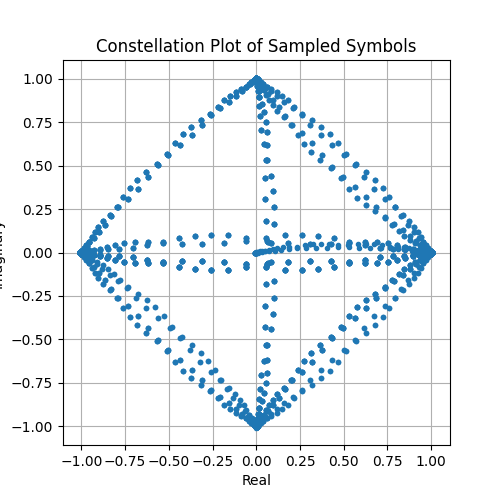
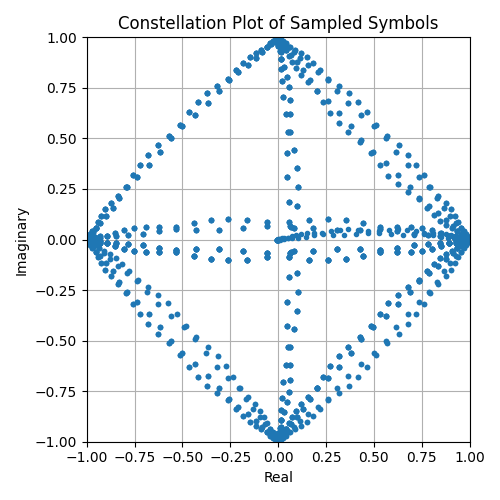
pushing changes to the gui

diff --git a/Phys_Sim/Gui_zmq_controlled.py b/Phys_Sim/Gui_zmq_controlled.py
@@ -290,9 +290,8 @@ def receiver_page():
         else:
             payload += str(rx_message_binary[i])
     with ui.column().style('width: 100%; justify-content: center; align-items: center;'):
-        ui.image('demod_media/Constellation.png').force_reload()
-        ui.image('demod_media/Base_Band_Waveform.png').force_reload()
-        ui.image('demod_media/Base_Band_FFT.png').force_reload()
+        ui.image('demod_media/Constellation.png').style('width:60%').force_reload()
+        ui.image('demod_media/Base_Band_FFT.png').style('width:70%').force_reload()
         ui.label('Bit Sequence:').style('font-size: 1.5em; font-weight: bold;')
         ui.html(f'''<div style ="font-size: 1.5em; font-weight: bold; color: #D2042D;"><span style = 'color:#0072BD'>Marker</span> | <span style = 'color:black'>Message</span></div>''').style('text-align: center;')
         ui.html(f'''<div style ="font-size: 1.5em; font-weight: bold; color: #D2042D; text-wrap:wrap; word-break: break-all;"><span style = 'color:#0072BD'>{marker}</span> | <span style = 'color:black; '>{payload}</span></div>''').style('text-align: center;')

diff --git a/Phys_Sim/Plotter.py b/Phys_Sim/Plotter.py
@@ -199,7 +199,10 @@ def Plotter(sample_rate, t, tx_signal, tx_vert_lines, symbol_rate, tx_symbols, s
                     plt.grid(True)
                     plt.title('Constellation Plot of Sampled Symbols')
                     plt.xlabel('Real')
+                    plt.xlim(-1,1)
+                    plt.ylim(-1,1)
                     plt.ylabel('Imaginary')
+                    plt.tight_layout()
                     plt.savefig('demod_media/Constellation.png')
 
 
